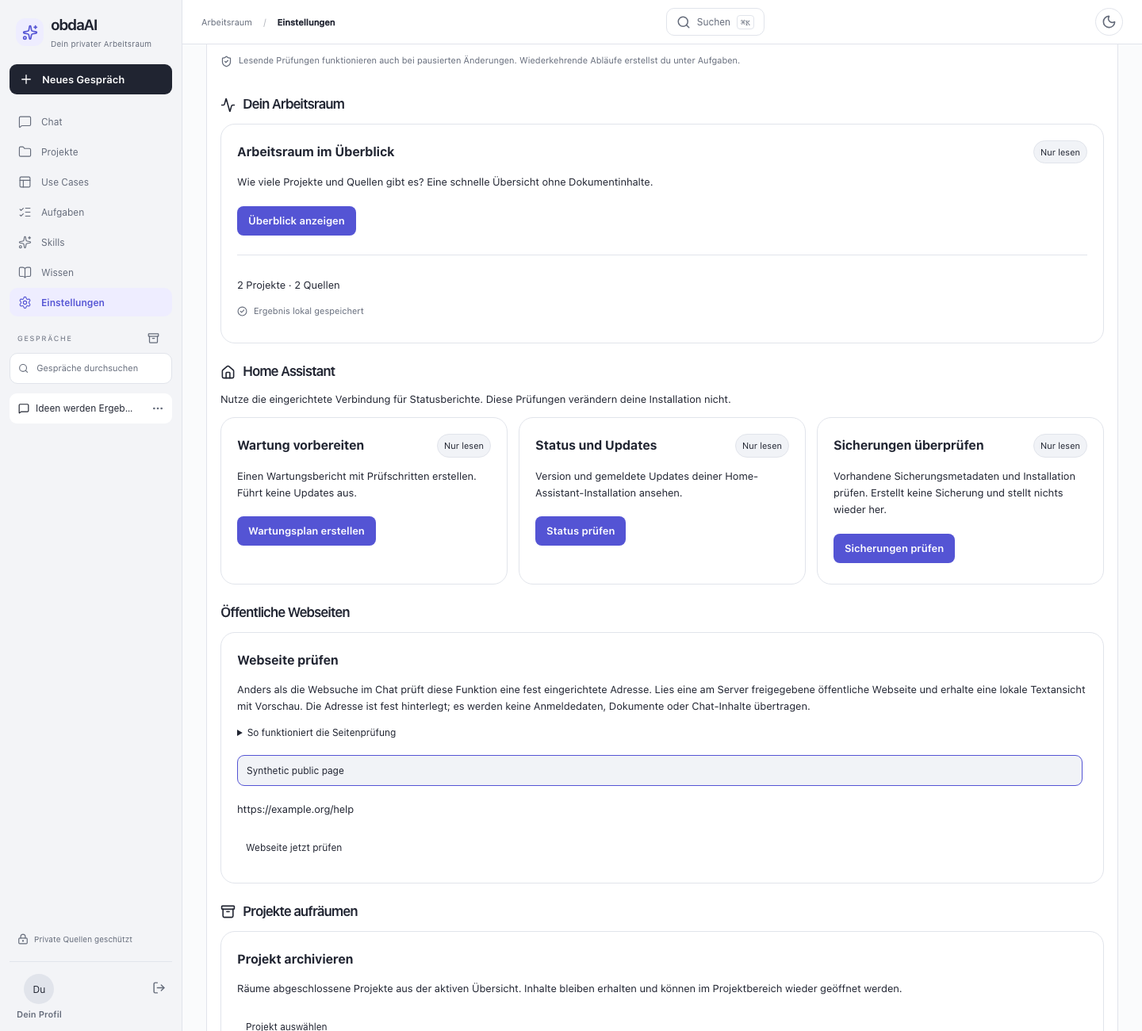
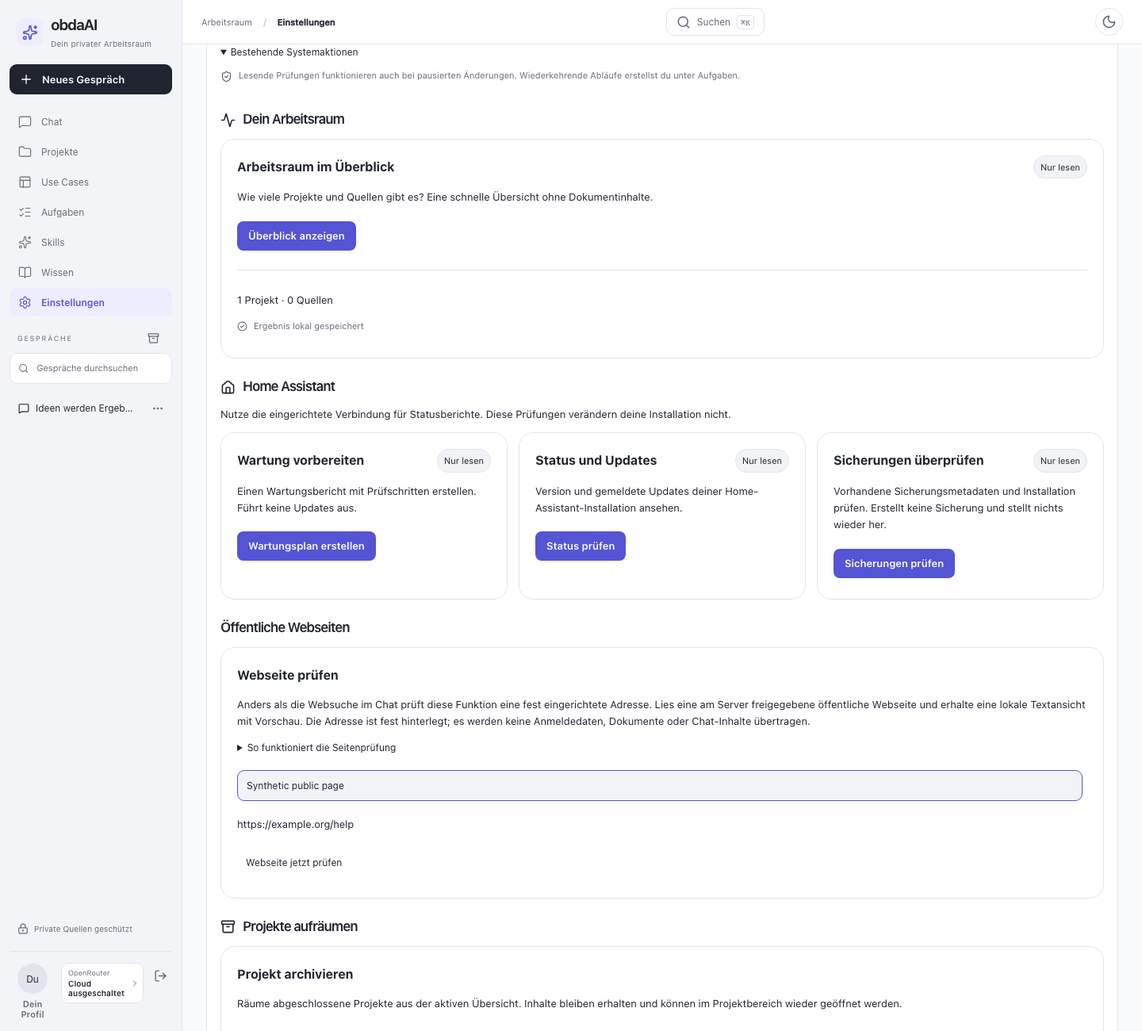
Remove duplicate integration settings sections

diff --git a/frontend/src/main.tsx b/frontend/src/main.tsx
@@ -171,6 +171,6 @@ if(!csrf)return <main className="login"><form onSubmit={login}><span className="
 return <div className="shell">{deletionCleanup&&<div className="deletion-cleanup-notice" role={deletionCleanup.error?'alert':'status'}>{deletionCleanup.status==='completed'?deletionCleanup.noun+' und Dateien endgültig gelöscht.':deletionCleanup.error?deletionCleanup.noun+' entfernt. Die Dateibereinigung wird weiter versucht: '+deletionCleanup.error:deletionCleanup.noun+' entfernt. Dateien werden endgültig bereinigt…'}{deletionCleanup.status==='completed'&&<button aria-label="Bereinigungsstatus schließen" onClick={()=>setDeletionCleanup(null)}>×</button>}</div>}{skillPicker&&<Suspense fallback={<div className="modal"><p role="status">Skillauswahl lädt…</p></div>}><ChatSkillPicker api={api} conversationId={chat?.id} projectId={chat?.project_id} onClose={()=>setSkillPicker(false)} onPick={invocation=>{const start=inputRef.current?.selectionStart??text.length,end=inputRef.current?.selectionEnd??start;const before=text.slice(0,start),prefix=before&&!/\s$/.test(before)?' ':'';changeText(before+prefix+invocation+' '+text.slice(end));setSkillPicker(false)}}/></Suspense>}{profileNavigation&&<div className="modal navigation-guard"><div role="dialog" aria-modal="true" aria-label="Ungespeicherte Profiländerungen" onKeyDown={event=>{if(event.key==='Escape'){event.preventDefault();setProfileNavigation(null)}if(event.key==='Tab'){const controls=Array.from(event.currentTarget.querySelectorAll<HTMLButtonElement>('button'));if(event.shiftKey&&document.activeElement===controls[0]){event.preventDefault();controls.at(-1)?.focus()}else if(!event.shiftKey&&document.activeElement===controls.at(-1)){event.preventDefault();controls[0]?.focus()}}}}><h2>Profiländerungen behalten?</h2><p>Deine Angaben sind noch nicht gespeichert. Kehre zu den Einstellungen zurück oder verwirf den Entwurf und öffne den gewählten Bereich.</p><div className="dialog-actions"><button onClick={()=>setProfileNavigation(null)}>Weiter bearbeiten</button><button onClick={()=>{const action=profileNavigation.run;setProfileNavigation(null);setProfileDirty(false);action()}}>Entwurf verwerfen und weiter</button></div></div></div>}{searchOpen&&<SearchPalette api={api} onClose={()=>setSearchOpen(false)} onSelect={selectSearchResult}/>}{pendingNavigation&&<div className="modal navigation-guard"><div role="dialog" aria-modal="true" aria-label="Ungespeicherte Aufgabenänderungen" onKeyDown={event=>{if(event.key==='Escape'){event.preventDefault();setPendingNavigation(null)}if(event.key==='Tab'){const controls=Array.from(event.currentTarget.querySelectorAll<HTMLButtonElement>('button'));if(event.shiftKey&&document.activeElement===controls[0]){event.preventDefault();controls.at(-1)?.focus()}else if(!event.shiftKey&&document.activeElement===controls.at(-1)){event.preventDefault();controls[0]?.focus()}}}}><h2>Änderungen an deiner Aufgabe behalten?</h2><p>Die Änderungen sind noch nicht gespeichert. Du kannst zur Aufgabe zurückkehren oder den Suchtreffer öffnen und die ungespeicherten Änderungen verwerfen.</p><div className="dialog-actions"><button onClick={()=>setPendingNavigation(null)}>Zur Aufgabe zurück</button><button onClick={()=>void navigateSearchResult(pendingNavigation)}>Änderungen verwerfen und Treffer öffnen</button></div></div></div>}{mobile&&<button className="scrim" aria-label="Navigation schließen" onClick={()=>setMobile(false)}/>}
 <aside inert={searchOpen||!!pendingNavigation||!!profileNavigation||skillPicker||!!deleteDialog} className={mobile?'sidebar open':'sidebar'}><div className="brand"><span className="brandmark"><Sparkles size={20}/></span><span><b>{appearance.app_name}</b><small>Dein privater Arbeitsraum</small></span></div><button className="new" onClick={()=>leaveProfile(()=>void newChat())} disabled={busy||switchingChat||searchNavigating||!navigationReady||!config}><Plus size={18}/> Neues Gespräch</button><nav aria-label="Hauptnavigation">{pages.map(p=><button className={page===p.name?'active':''} disabled={switchingChat||searchNavigating||!navigationReady} key={p.name} onClick={()=>leaveProfile(()=>{if(p.name==='Projekte'||p.name==='Wissen'||p.name==='Use Cases'){setArtifactProject(null);setArtifactSeed(null);setProjectTab('chats');setFileTarget(null);setSourceTarget(null);setConnectionTarget(null)}if(p.name==='Use Cases')setUseCaseTarget(null);if(p.name==='Aufgaben')setTaskTarget(null);setPage(p.name);if(p.name==='Chat')setWorkbenchOpen(false);setMobile(false)},p.name===page)}><p.icon size={18}/>{p.name}</button>)}</nav><div className="history-title">GESPRÄCHE <button aria-label={archived?'Aktive Gespräche':'Archiv anzeigen'} onClick={()=>setArchived(!archived)}><Archive size={15}/></button></div><label className="search"><Search size={15}/><input aria-label="Gespräche suchen" placeholder="Gespräche durchsuchen" value={query} onChange={e=>setQuery(e.target.value)}/></label><div className="history">{chats.map(c=><div className={'history-row '+(chat?.id===c.id?'active':'')} key={c.id}><button className="history-open" disabled={busy} onClick={()=>leaveProfile(()=>void open(c.id))}><MessageSquare size={14}/><span>{c.title}</span></button><details name="conversation-actions" className="history-actions" onKeyDown={event=>{if(event.key==='Escape'){event.currentTarget.open=false;event.currentTarget.querySelector<HTMLElement>('summary')?.focus()}}}><summary aria-label={'Gesprächsaktionen: '+c.title}><MoreHorizontal size={16}/></summary><div className="history-menu"><button disabled={busy||switchingChat} onClick={async event=>{event.currentTarget.closest('details')?.removeAttribute('open');try{await api('/conversations/'+c.id,'PATCH',{archived:!c.archived});if(chat?.id===c.id)setChat(old=>old?{...old,archived:!c.archived}:old);await refresh()}catch(e){setError((e as Error).message)}}}><Archive size={14}/>{c.archived?'Wieder öffnen':'Archivieren'}</button><button className="danger-link" disabled={busy||switchingChat} onClick={event=>{event.currentTarget.closest('details')?.removeAttribute('open');setDeleteDialog({id:c.id,name:c.title,kind:'conversation'})}}><Trash2 size={14}/> Gespräch löschen</button></div></details></div>)}{!chats.length&&<p className="hint">{archived?'Das Archiv ist leer.':'Deine Gespräche erscheinen hier.'}</p>}</div><div className="sidebar-bottom"><p><LockKeyhole size={14}/> Private Quellen geschützt</p><div className="profile"><button className="profile-identity" aria-label="Profil und Darstellung anpassen" onClick={()=>leaveProfile(()=>{setSettingsTab('Allgemein');setPage('Einstellungen');setMobile(false)})}><span className="avatar">{appearance.avatar_data_url?<img src={appearance.avatar_data_url} alt="Dein Profilfoto"/>:initials(appearance.display_name)}</span><strong>{appearance.display_name||'Dein Profil'}</strong></button><Suspense fallback={null}><CloudBalances api={api} enabled={!!config?.cloud_enabled} onSettings={()=>leaveProfile(()=>{setSettingsTab('Modelle');setPage('Einstellungen');setMobile(false)})}/></Suspense><button aria-label="Abmelden" onClick={async()=>{await api('/logout','POST');clearAuth()}}><LogOut size={17}/></button></div></div></aside>
 <main inert={searchOpen||!!pendingNavigation||!!profileNavigation||skillPicker||!!deleteDialog} className={'workspace'+(page==='Chat'&&workbenchOpen?' with-workbench':'')}><header><button className="mobile-toggle" aria-label="Navigation öffnen" disabled={switchingChat||searchNavigating||!navigationReady} onClick={()=>setMobile(true)}><Menu size={21}/></button><div className="breadcrumb">{searchNavigating&&<span role="status">Treffer wird geöffnet … </span>}Arbeitsraum <span>/</span> <b>{page}</b></div><button className="workspace-search-button" aria-label="Arbeitsraum durchsuchen" title="Arbeitsraum durchsuchen (⌘K / Strg+K)" disabled={busy||switchingChat||searchNavigating||!navigationReady||!config} onClick={()=>setSearchOpen(true)}><Search size={18}/><span>Suchen</span><kbd>⌘K</kbd></button><button aria-label={dark?'Helles Design':'Dunkles Design'} onClick={()=>setDark(!dark)}>{dark?<Sun size={19}/>:<Moon size={19}/>}</button></header>
-{page==='Chat'?<><div className="chat-top"><div><span className="context">{chat?.memory_scope?'Wissenschat · Obsidian':room?<button className="text-button" onClick={()=>{setArtifactProject(room.id);setArtifactSeed(null);setProjectTab('chats');setPage(room.kind==='knowledge'?'Wissen':'Projekte')}}>{room.kind!=='knowledge'&&<span className="project-chat-icon"><Suspense fallback={<Folder size={15}/>}><ProjectIcon icon={room.icon} size={15}/></Suspense></span>}{room.name} · {room.kind==='knowledge'?'Wissensquelle öffnen':'Projektraum öffnen'}</button>:chat?.title||'Neues Gespräch'}</span></div><div className="workspace-actions"><button aria-label="Arbeitsbereich öffnen" aria-pressed={workbenchOpen} onClick={()=>setWorkbenchOpen(value=>!value)}><Folder size={15}/><span>Arbeitsbereich</span></button><button aria-label="Antwortvorgaben öffnen" title="Antwortstil einstellen" aria-pressed={workbenchOpen&&workTab==='preferences'} onClick={()=>showWorkbench('preferences')}><Settings size={15}/></button></div>{chat&&<div><button disabled={busy} aria-label="Gespräch umbenennen" onClick={()=>setRename(chat.title)}><Pencil size={16}/></button><button disabled={busy} aria-label={chat.archived?'Gespräch wieder öffnen':'Gespräch archivieren'} onClick={()=>edit({archived:!chat.archived})}><Archive size={16}/></button><button disabled={busy} aria-label="Gespräch löschen" onClick={()=>setDeleteDialog({id:chat.id,name:chat.title,kind:'conversation'})}><Trash2 size={16}/></button></div>}</div>{chat&&<Suspense fallback={<p className="hint" role="status">Integrationen laden…</p>}><IntegrationBindingPicker key={chat.id} api={api} scope="conversation" ownerId={chat.id} disabled={busy||chat.archived}/></Suspense>}<section ref={chatScroll.containerRef} className="chat-scroll" aria-label="Gespräch" tabIndex={0}><div ref={chatScroll.contentRef} className="chat-content">{!chat?.messages.length?<div className="welcome"><div className="welcome-icon"><Sparkles size={29}/></div><p className="eyebrow">DEIN PERSÖNLICHER AI HUB</p><h1>Womit möchtest du <em>beginnen?</em></h1><p>Stelle eine Frage, entwickle eine Idee oder denke etwas weiter.<br/>Auto wählt zwischen lokalen und freigegebenen Cloudmodellen.</p><div className="suggestions">{['Erkläre mir ein Thema einfach','Hilf mir, eine Idee zu strukturieren','Formuliere einen freundlichen Entwurf'].map((s,i)=><button key={s} onClick={()=>changeText(s)}><span>0{i+1}</span>{s}<ArrowUp size={17}/></button>)}</div><p className="hint">AUTO wählt ein passendes Modell innerhalb deiner Freigaben. Ohne Cloudfreigabe bleiben deine Nachrichten lokal.</p></div>:<div className="messages">{chat.messages.map(m=><article className={'message '+m.role} key={m.id}><div className="message-label">{m.role==='user'?'Du':<><Sparkles size={14}/> {appearance.app_name}</>}</div><div className="markdown"><Markdown remarkPlugins={[remarkGfm]} urlTransform={u=>u.startsWith('https://')||u.startsWith('http://')?u:''} components={{img:()=> <span className="hint">Externes Bild wird nicht automatisch geladen.</span>,a:props=><a {...props} target="_blank" rel="noreferrer noopener"/>}}>{m.content}</Markdown></div>{m.role==='assistant'&&m.content&&<AnswerProcessing processing={m.processing}/>}{m.role==='user'&&m.id!=='user'&&<button disabled={busy||!config} className="copy" aria-label="Nachricht bearbeiten" onClick={()=>{setEditing(m);setEditedText(m.content);setEditCloud(mode==='auto'&&!!config?.cloud_enabled&&!chat?.project_id&&!chat?.memory_scope)}}><Pencil size={14}/> Bearbeiten</button>}{m.role==='user'&&m.id!=='user'&&<button className="copy" aria-label="Aus Nachricht eine Aufgabe planen" disabled={busy||!m.content.trim()||m.content.length>4000} title={m.content.length>4000?'Nachricht zu lang; bitte ein kürzeres Ziel im Aufgabenbereich eingeben':undefined} onClick={()=>{setTaskSeed({goal:m.content,project_id:chat.project_id||null});showWorkbench('task');setMobile(false)}}><ListChecks size={14}/> Als Aufgabe planen</button>}{m.role==='assistant'&&m.id!=='stream'&&m.content&&m.content.length<=16000&&!chat.memory_scope&&<button className="copy" aria-label="Chatantwort als Datei übernehmen" disabled={busy} onClick={()=>{setArtifactSeed({project_id:chat.project_id||null,conversation_id:chat.id,message_id:m.id,revision:m.revision||1,content:m.content});showWorkbench('files');setMobile(false)}}><Folder size={14}/> Als Datei übernehmen</button>}{m.role==='assistant'&&m.content&&<button className="copy" aria-label="Antwort kopieren" onClick={()=>navigator.clipboard.writeText(m.content).catch(()=>setError('Kopieren nicht verfügbar'))}><Copy size={14}/> Kopieren</button>}</article>)}{!!chat.context_sources?.length&&<details className="setting-card"><summary>Verwendete Quellen · {chat.context_sources.length}</summary>{chat.context_sources.map((s,i)=><p key={i}>{s.reference}<small> · Revision {s.revision} · {s.label}</small>{s.download_url&&<a href={s.download_url} download> Original</a>}</p>)}</details>}{chat.runs.filter(r=>r.artifact).map(r=><article className="citation" key={'file-'+r.id}><b>Lokale Datei · {r.artifact!.kind.toUpperCase()} · Version {r.artifact!.revision}</b><p>Vorschau und Inhalt vor dem Download prüfen.</p><button onClick={()=>{setArtifactSeed(null);setArtifactProject(r.artifact!.project_id);showWorkbench('files');setMobile(false)}}>Datei im Projekt öffnen</button></article>)}{chat.runs.length>0&&<RunHistory key={chat.id} runs={chat.runs} load={id=>api('/runs/'+id)}/>}{chat.messages.length>0&&!chat.archived&&<button className="retry" disabled={busy||!config} onClick={()=>regenerate()}><ArrowUp size={14}/> Antwort erneut erzeugen</button>}</div>}</div></section><div className="composer-area">{!chatScroll.following&&<button type="button" className="chat-jump-end" aria-label="Zum Ende" onClick={chatScroll.jumpToEnd}><ArrowDown size={15}/> Zum Ende</button>}{banner}{status&&<p className="status" role="status">{busy&&<i/>}{status}</p>}<form className="composer" onSubmit={send}><textarea ref={inputRef} rows={1} aria-label="Nachricht" placeholder="Schreibe deinem persönlichen Assistenten …" value={text} disabled={chat?.archived||switchingChat} onChange={e=>changeText(e.target.value)} onKeyDown={e=>{if(e.key==='Enter'&&!e.shiftKey&&!e.nativeEvent.isComposing){e.preventDefault();e.currentTarget.form?.requestSubmit()}}}/><div className="composer-bottom"><ComposerTools choice={choice} cloudEnabled={!!config?.cloud_enabled} cloudBlocked={!!chat?.project_id||!!chat?.memory_scope} disabled={busy||!!chat?.archived||switchingChat||!config} webConfigured={!!config?.web_search_configured} webAllowed={mode!=='local'&&webAllowed} sourceLabel={chat?.project_id?(room?.kind==='knowledge'?'Wissensquelle':'Projektquellen'):chat?.memory_scope?'Obsidian-Quellen':undefined} onChooseModel={chooseModel} onToggleWeb={()=>updateWebAllowed(!webAllowed)} onAction={action=>{if(action==='skills'){setSkillPicker(true);return}if(action==='task')setTaskSeed({goal:text,project_id:chat?.project_id||null});if(action==='files')setArtifactSeed(null);showWorkbench(action)}}/>{busy?<button type="button" className="send" aria-label="Antwort abbrechen" onClick={cancel}><Square size={17}/></button>:<button className="send" aria-label="Nachricht senden" disabled={!text.trim()||chat?.archived||switchingChat||!config}><ArrowUp size={20}/></button>}</div></form><div className="composer-note"><span>Enter senden · Shift + Enter neue Zeile</span><span>{!config?'Modell- und Webeinstellungen werden geladen…':choice==='auto'?(chat?.project_id||chat?.memory_scope?'Private Quellen bleiben lokal':config?.cloud_enabled?'Automatisch · lokal oder Cloud nach Routingregeln':'Automatisch · Cloud am Server ausgeschaltet'):choice==='local'?'Lokales Modell, ohne Cloud':chat?.project_id||chat?.memory_scope?'Quellen bleiben lokal':'Konfiguriertes Cloudmodell · ohne lokalen Fallback'}</span></div></div></>:<section className="page-content"><p className="eyebrow">{['Einstellungen','Projekte','Use Cases','Wissen','Skills','Aufgaben'].includes(page)?'DEIN ARBEITSRAUM':'IN ENTWICKLUNG'}</p><h1>{page}</h1><Suspense fallback={<p role="status">Bereich lädt…</p>}>{page==='Einstellungen'?<SettingsPanel appearance={appearance} appearanceLoading={appearanceLoading} appearanceError={appearanceError} onAppearanceSave={saveAppearance} tab={settingsTab} onTabChange={setSettingsTab} onOpenTasks={()=>leaveProfile(()=>setPage('Aufgaben'))} onDirtyChange={setProfileDirty} onWebSettingsSaved={async()=>setConfig(await api('/settings'))} webAllowed={webAllowed} onWebAllowed={updateWebAllowed} onPasswordChanged={()=>clearAuth('Passwort geändert. Bitte melde dich mit deinem neuen Passwort an.')} api={api} config={config} dark={dark} onTheme={setDark} defaultMode={defaultMode} onDefaultMode={value=>{setDefaultMode(value);localStorage.setItem('hub-default-mode',value)}}/>:page==='Projekte'?<KnowledgePanel onDeleted={deleted} key={navigationSerial} initialArtifactId={fileTarget} initialSourceId={sourceTarget} api={api} csrf={csrf} seed={artifactSeed} initialProject={artifactProject} initialTab={projectTab} onSelection={(id,tab)=>{setArtifactProject(id);setProjectTab(tab)}} onChat={id=>void open(id)}/>:page==='Use Cases'?<UseCasesHub key={navigationSerial} api={api} projectId={artifactProject} caseId={useCaseTarget} onSelection={(project,item)=>{setArtifactProject(project);setUseCaseTarget(item)}}/>:page==='Wissen'?<KnowledgeSourcesPanel key={navigationSerial} initialArtifactId={fileTarget} initialSourceId={sourceTarget} initialConnectionId={connectionTarget} api={api} initialProject={artifactProject} onChat={id=>void open(id)}/>:page==='Skills'?<SkillsPanel api={api}/>:page==='Aufgaben'?<TasksPanel onSearch={()=>setSearchOpen(true)} key={navigationSerial} initialTaskId={taskTarget} onDirtyChange={setTaskDirty} api={api}/>:<div className="setting-card"><h2>{page==='Projekte'||page==='Wissen'?'Meilenstein M2':'Meilenstein M3'}</h2><p>Dieser Bereich ist noch nicht implementiert. Der Chat ist an die echte API angeschlossen; hier wurden noch keine Daten importiert oder Systemaktionen freigegeben.</p><button className="primary" onClick={()=>setPage('Chat')}>Zum Chat <MessageSquare size={17}/></button></div>}</Suspense></section>}
+{page==='Chat'?<><div className="chat-top"><div><span className="context">{chat?.memory_scope?'Wissenschat · Obsidian':room?<button className="text-button" onClick={()=>{setArtifactProject(room.id);setArtifactSeed(null);setProjectTab('chats');setPage(room.kind==='knowledge'?'Wissen':'Projekte')}}>{room.kind!=='knowledge'&&<span className="project-chat-icon"><Suspense fallback={<Folder size={15}/>}><ProjectIcon icon={room.icon} size={15}/></Suspense></span>}{room.name} · {room.kind==='knowledge'?'Wissensquelle öffnen':'Projektraum öffnen'}</button>:chat?.title||'Neues Gespräch'}</span></div><div className="workspace-actions"><button aria-label="Arbeitsbereich öffnen" aria-pressed={workbenchOpen} onClick={()=>setWorkbenchOpen(value=>!value)}><Folder size={15}/><span>Arbeitsbereich</span></button><button aria-label="Antwortvorgaben öffnen" title="Antwortstil einstellen" aria-pressed={workbenchOpen&&workTab==='preferences'} onClick={()=>showWorkbench('preferences')}><Settings size={15}/></button></div>{chat&&<div><button disabled={busy} aria-label="Gespräch umbenennen" onClick={()=>setRename(chat.title)}><Pencil size={16}/></button><button disabled={busy} aria-label={chat.archived?'Gespräch wieder öffnen':'Gespräch archivieren'} onClick={()=>edit({archived:!chat.archived})}><Archive size={16}/></button><button disabled={busy} aria-label="Gespräch löschen" onClick={()=>setDeleteDialog({id:chat.id,name:chat.title,kind:'conversation'})}><Trash2 size={16}/></button></div>}</div>{chat&&<Suspense fallback={<p className="hint" role="status">Integrationen laden…</p>}><IntegrationBindingPicker key={chat.id} api={api} scope="conversation" ownerId={chat.id} disabled={busy||chat.archived}/></Suspense>}<section ref={chatScroll.containerRef} className="chat-scroll" aria-label="Gespräch" tabIndex={0}><div ref={chatScroll.contentRef} className="chat-content">{!chat?.messages.length?<div className="welcome"><div className="welcome-icon"><Sparkles size={29}/></div><p className="eyebrow">DEIN PERSÖNLICHER AI HUB</p><h1>Womit möchtest du <em>beginnen?</em></h1><p>Stelle eine Frage, entwickle eine Idee oder denke etwas weiter.<br/>Auto wählt zwischen lokalen und freigegebenen Cloudmodellen.</p><div className="suggestions">{['Erkläre mir ein Thema einfach','Hilf mir, eine Idee zu strukturieren','Formuliere einen freundlichen Entwurf'].map((s,i)=><button key={s} onClick={()=>changeText(s)}><span>0{i+1}</span>{s}<ArrowUp size={17}/></button>)}</div><p className="hint">AUTO wählt ein passendes Modell innerhalb deiner Freigaben. Ohne Cloudfreigabe bleiben deine Nachrichten lokal.</p></div>:<div className="messages">{chat.messages.map(m=><article className={'message '+m.role} key={m.id}><div className="message-label">{m.role==='user'?'Du':<><Sparkles size={14}/> {appearance.app_name}</>}</div><div className="markdown"><Markdown remarkPlugins={[remarkGfm]} urlTransform={u=>u.startsWith('https://')||u.startsWith('http://')?u:''} components={{img:()=> <span className="hint">Externes Bild wird nicht automatisch geladen.</span>,a:props=><a {...props} target="_blank" rel="noreferrer noopener"/>}}>{m.content}</Markdown></div>{m.role==='assistant'&&m.content&&<AnswerProcessing processing={m.processing}/>}{m.role==='user'&&m.id!=='user'&&<button disabled={busy||!config} className="copy" aria-label="Nachricht bearbeiten" onClick={()=>{setEditing(m);setEditedText(m.content);setEditCloud(mode==='auto'&&!!config?.cloud_enabled&&!chat?.project_id&&!chat?.memory_scope)}}><Pencil size={14}/> Bearbeiten</button>}{m.role==='user'&&m.id!=='user'&&<button className="copy" aria-label="Aus Nachricht eine Aufgabe planen" disabled={busy||!m.content.trim()||m.content.length>4000} title={m.content.length>4000?'Nachricht zu lang; bitte ein kürzeres Ziel im Aufgabenbereich eingeben':undefined} onClick={()=>{setTaskSeed({goal:m.content,project_id:chat.project_id||null});showWorkbench('task');setMobile(false)}}><ListChecks size={14}/> Als Aufgabe planen</button>}{m.role==='assistant'&&m.id!=='stream'&&m.content&&m.content.length<=16000&&!chat.memory_scope&&<button className="copy" aria-label="Chatantwort als Datei übernehmen" disabled={busy} onClick={()=>{setArtifactSeed({project_id:chat.project_id||null,conversation_id:chat.id,message_id:m.id,revision:m.revision||1,content:m.content});showWorkbench('files');setMobile(false)}}><Folder size={14}/> Als Datei übernehmen</button>}{m.role==='assistant'&&m.content&&<button className="copy" aria-label="Antwort kopieren" onClick={()=>navigator.clipboard.writeText(m.content).catch(()=>setError('Kopieren nicht verfügbar'))}><Copy size={14}/> Kopieren</button>}</article>)}{!!chat.context_sources?.length&&<details className="setting-card"><summary>Verwendete Quellen · {chat.context_sources.length}</summary>{chat.context_sources.map((s,i)=><p key={i}>{s.reference}<small> · Revision {s.revision} · {s.label}</small>{s.download_url&&<a href={s.download_url} download> Original</a>}</p>)}</details>}{chat.runs.filter(r=>r.artifact).map(r=><article className="citation" key={'file-'+r.id}><b>Lokale Datei · {r.artifact!.kind.toUpperCase()} · Version {r.artifact!.revision}</b><p>Vorschau und Inhalt vor dem Download prüfen.</p><button onClick={()=>{setArtifactSeed(null);setArtifactProject(r.artifact!.project_id);showWorkbench('files');setMobile(false)}}>Datei im Projekt öffnen</button></article>)}{chat.runs.length>0&&<RunHistory key={chat.id} runs={chat.runs} load={id=>api('/runs/'+id)}/>}{chat.messages.length>0&&!chat.archived&&<button className="retry" disabled={busy||!config} onClick={()=>regenerate()}><ArrowUp size={14}/> Antwort erneut erzeugen</button>}</div>}</div></section><div className="composer-area">{!chatScroll.following&&<button type="button" className="chat-jump-end" aria-label="Zum Ende" onClick={chatScroll.jumpToEnd}><ArrowDown size={15}/> Zum Ende</button>}{banner}{status&&<p className="status" role="status">{busy&&<i/>}{status}</p>}<form className="composer" onSubmit={send}><textarea ref={inputRef} rows={1} aria-label="Nachricht" placeholder="Schreibe deinem persönlichen Assistenten …" value={text} disabled={chat?.archived||switchingChat} onChange={e=>changeText(e.target.value)} onKeyDown={e=>{if(e.key==='Enter'&&!e.shiftKey&&!e.nativeEvent.isComposing){e.preventDefault();e.currentTarget.form?.requestSubmit()}}}/><div className="composer-bottom"><ComposerTools choice={choice} cloudEnabled={!!config?.cloud_enabled} cloudBlocked={!!chat?.project_id||!!chat?.memory_scope} disabled={busy||!!chat?.archived||switchingChat||!config} webConfigured={!!config?.web_search_configured} webAllowed={mode!=='local'&&webAllowed} sourceLabel={chat?.project_id?(room?.kind==='knowledge'?'Wissensquelle':'Projektquellen'):chat?.memory_scope?'Obsidian-Quellen':undefined} onChooseModel={chooseModel} onToggleWeb={()=>updateWebAllowed(!webAllowed)} onAction={action=>{if(action==='skills'){setSkillPicker(true);return}if(action==='task')setTaskSeed({goal:text,project_id:chat?.project_id||null});if(action==='files')setArtifactSeed(null);showWorkbench(action)}}/>{busy?<button type="button" className="send" aria-label="Antwort abbrechen" onClick={cancel}><Square size={17}/></button>:<button className="send" aria-label="Nachricht senden" disabled={!text.trim()||chat?.archived||switchingChat||!config}><ArrowUp size={20}/></button>}</div></form><div className="composer-note"><span>Enter senden · Shift + Enter neue Zeile</span><span>{!config?'Modell- und Webeinstellungen werden geladen…':choice==='auto'?(chat?.project_id||chat?.memory_scope?'Private Quellen bleiben lokal':config?.cloud_enabled?'Automatisch · lokal oder Cloud nach Routingregeln':'Automatisch · Cloud am Server ausgeschaltet'):choice==='local'?'Lokales Modell, ohne Cloud':chat?.project_id||chat?.memory_scope?'Quellen bleiben lokal':'Konfiguriertes Cloudmodell · ohne lokalen Fallback'}</span></div></div></>:<section className="page-content"><p className="eyebrow">{['Einstellungen','Projekte','Use Cases','Wissen','Skills','Aufgaben'].includes(page)?'DEIN ARBEITSRAUM':'IN ENTWICKLUNG'}</p><h1>{page}</h1><Suspense fallback={<p role="status">Bereich lädt…</p>}>{page==='Einstellungen'?<SettingsPanel appearance={appearance} appearanceLoading={appearanceLoading} appearanceError={appearanceError} onAppearanceSave={saveAppearance} tab={settingsTab} onTabChange={setSettingsTab} onDirtyChange={setProfileDirty} onWebSettingsSaved={async()=>setConfig(await api('/settings'))} webAllowed={webAllowed} onWebAllowed={updateWebAllowed} onPasswordChanged={()=>clearAuth('Passwort geändert. Bitte melde dich mit deinem neuen Passwort an.')} api={api} config={config} dark={dark} onTheme={setDark} defaultMode={defaultMode} onDefaultMode={value=>{setDefaultMode(value);localStorage.setItem('hub-default-mode',value)}}/>:page==='Projekte'?<KnowledgePanel onDeleted={deleted} key={navigationSerial} initialArtifactId={fileTarget} initialSourceId={sourceTarget} api={api} csrf={csrf} seed={artifactSeed} initialProject={artifactProject} initialTab={projectTab} onSelection={(id,tab)=>{setArtifactProject(id);setProjectTab(tab)}} onChat={id=>void open(id)}/>:page==='Use Cases'?<UseCasesHub key={navigationSerial} api={api} projectId={artifactProject} caseId={useCaseTarget} onSelection={(project,item)=>{setArtifactProject(project);setUseCaseTarget(item)}}/>:page==='Wissen'?<KnowledgeSourcesPanel key={navigationSerial} initialArtifactId={fileTarget} initialSourceId={sourceTarget} initialConnectionId={connectionTarget} api={api} initialProject={artifactProject} onChat={id=>void open(id)}/>:page==='Skills'?<SkillsPanel api={api}/>:page==='Aufgaben'?<TasksPanel onSearch={()=>setSearchOpen(true)} key={navigationSerial} initialTaskId={taskTarget} onDirtyChange={setTaskDirty} api={api}/>:<div className="setting-card"><h2>{page==='Projekte'||page==='Wissen'?'Meilenstein M2':'Meilenstein M3'}</h2><p>Dieser Bereich ist noch nicht implementiert. Der Chat ist an die echte API angeschlossen; hier wurden noch keine Daten importiert oder Systemaktionen freigegeben.</p><button className="primary" onClick={()=>setPage('Chat')}>Zum Chat <MessageSquare size={17}/></button></div>}</Suspense></section>}
 {page==='Chat'&&workbenchOpen&&<div className="workspace-panel-mount"><WorkspacePanel api={api} csrf={csrf} conversationId={chat?.id} projectId={chat?.project_id} memoryScope={chat?.memory_scope} tab={workTab} onTab={setWorkTab} onClose={()=>setWorkbenchOpen(false)} seed={artifactSeed} taskSeed={taskSeed} onOpenProject={(id,tab)=>{setArtifactSeed(null);setArtifactProject(id);setProjectTab(tab);setPage('Projekte')}} onTaskCreated={()=>setTaskSeed(null)} onOpenTasks={()=>{setTaskSeed(null);setPage('Aufgaben')}}/></div>}</main>{editing&&<div className="modal"><form onSubmit={e=>{e.preventDefault();void regenerate(editing)}}><h2>Nachricht bearbeiten</h2><p className="hint">Ab dieser Nachricht entsteht eine neue Antwort. Bisherige Antworten bleiben in der Laufhistorie erhalten.</p>{error&&<p className="error" role="alert">{error}</p>}<label htmlFor="edited-message">Nachricht</label><textarea id="edited-message" required maxLength={16000} value={editedText} onChange={e=>setEditedText(e.target.value)}/>{config?.cloud_enabled&&!chat?.project_id&&!chat?.memory_scope&&mode==='auto'&&<label><input type="checkbox" checked={editCloud} onChange={e=>setEditCloud(e.target.checked)}/> Cloudmodelle für diese neue Revision erlauben ({providerLabels[cloudProvider]})</label>}<p className="hint">{mode==='cloud'?'Diese neue Revision wird vom konfigurierten Cloudmodell beantwortet.':'Ohne Modellfreigabe wird die geänderte Nachricht lokal beantwortet.'} Bei eingeschalteter Websuche kann ihr Suchtext an den Suchdienst übergeben werden.</p><div className="dialog-actions"><button type="button" onClick={()=>setEditing(null)}>Abbrechen</button><button className="primary" disabled={busy||!editedText.trim()||!config}>Ändern und neu antworten</button></div></form></div>}{rename!==null&&<div className="modal"><form onSubmit={e=>{e.preventDefault();void edit({title:rename})}}><h2>Gespräch umbenennen</h2><label htmlFor="title">Titel</label><input id="title" required maxLength={160} value={rename} autoFocus onChange={e=>setRename(e.target.value)}/><div className="dialog-actions"><button type="button" onClick={()=>setRename(null)}>Abbrechen</button><button className="primary">Speichern</button></div></form></div>}{deleteDialog&&<DeleteDialog api={api} target={deleteDialog} onClose={()=>setDeleteDialog(null)} onDeleted={deleted}/>}</div>}
 createRoot(document.getElementById('root')!).render(<StrictMode><App/></StrictMode>);

diff --git a/frontend/src/SettingsPanel.tsx b/frontend/src/SettingsPanel.tsx
@@ -1,9 +1,8 @@
-import {useEffect,useState,useRef,lazy} from 'react';
+import {useEffect,useState,lazy} from 'react';
 import {AppearancePanel} from './AppearancePanel';
 import type {Appearance} from './appearance';
 import {ToolsPanel} from './ToolsPanel';
 import {IntegrationRegistryPanel} from './IntegrationRegistryPanel';
-import {ConnectionsPanel} from './ConnectionsPanel';
 import {ProvidersPanel} from './ProvidersPanel';
 const SkillsPanel=lazy(()=>import('./SkillsPanel').then(m=>({default:m.SkillsPanel})));
 import {PreferencesPanel} from './PreferencesPanel';
@@ -15,15 +14,10 @@ type API=(path:string,method?:string,body?:unknown)=>Promise<any>;
 type Config={local_configured:boolean;cloud_enabled:boolean;external_provider_kinds?:string[];web_search_configured?:boolean};
 type Mode='auto'|'local'|'cloud';
 export const settingsTabs=['Allgemein','Über mich','Modelle','Routing','Antwortverhalten','Skills','Webrecherche','Integrationen','Datenschutz','Sicherheit'];
-export function SettingsPanel({appearance,appearanceLoading,appearanceError,onAppearanceSave,api,config,dark,onTheme,defaultMode,onDefaultMode,webAllowed,onWebAllowed,onPasswordChanged,onWebSettingsSaved,onDirtyChange,tab,onTabChange,onOpenTasks}:{appearance:Appearance;appearanceLoading:boolean;appearanceError:string;onAppearanceSave:(value:Appearance)=>Promise<void>;api:API;config:Config|null;dark:boolean;onTheme:(dark:boolean)=>void;defaultMode:Mode;onDefaultMode:(mode:Mode)=>void;webAllowed:boolean;onWebAllowed:(allowed:boolean)=>void;onPasswordChanged?:()=>void;onWebSettingsSaved?:()=>Promise<void>;onDirtyChange?:(dirty:boolean)=>void;tab:string;onTabChange:(tab:string)=>void;onOpenTasks?:()=>void}){
- const [clock,setClock]=useState<{configured:boolean;healthy:boolean;last_tick:number|null}|null>(null);
+export function SettingsPanel({appearance,appearanceLoading,appearanceError,onAppearanceSave,api,config,dark,onTheme,defaultMode,onDefaultMode,webAllowed,onWebAllowed,onPasswordChanged,onWebSettingsSaved,onDirtyChange,tab,onTabChange}:{appearance:Appearance;appearanceLoading:boolean;appearanceError:string;onAppearanceSave:(value:Appearance)=>Promise<void>;api:API;config:Config|null;dark:boolean;onTheme:(dark:boolean)=>void;defaultMode:Mode;onDefaultMode:(mode:Mode)=>void;webAllowed:boolean;onWebAllowed:(allowed:boolean)=>void;onPasswordChanged?:()=>void;onWebSettingsSaved?:()=>Promise<void>;onDirtyChange?:(dirty:boolean)=>void;tab:string;onTabChange:(tab:string)=>void}){
  const [policy,setPolicy]=useState<{paused:boolean}|null>(null);
- const [connectionsOpen,setConnectionsOpen]=useState(false);
- const connectionsRef=useRef<HTMLDetailsElement>(null);
  const setTab=(next:string)=>onTabChange(next);
- function showConnections(){setConnectionsOpen(true);requestAnimationFrame(()=>{connectionsRef.current?.scrollIntoView({block:'start',behavior:'smooth'});connectionsRef.current?.querySelector<HTMLElement>('summary')?.focus()})}
  useEffect(()=>{let stopped=false;setPolicy(null);if(tab!=='Datenschutz')return;api('/action-policy').then(value=>{if(!stopped)setPolicy(value)}).catch(()=>{if(!stopped)setPolicy(null)});return()=>{stopped=true}},[api,tab]);
- useEffect(()=>{let stopped=false;const update=()=>api('/scheduler/status').then(value=>{if(!stopped)setClock(value)}).catch(()=>{if(!stopped)setClock(null)});void update();const timer=setInterval(update,15000);return()=>{stopped=true;clearInterval(timer)}},[api]);
  return <><p className="muted">Dein Arbeitsraum, deine Modelle und deine Regeln.</p><nav className="settings-tabs" aria-label="Einstellungsbereiche">{settingsTabs.map(name=><button key={name} aria-pressed={tab===name} className={tab===name?'active':''} onClick={()=>setTab(name)}>{name}</button>)}</nav>
  {tab==='Allgemein'&&<><AppearancePanel value={appearance} loading={appearanceLoading} error={appearanceError} onSave={onAppearanceSave}/><section className="setting-card"><h2>Darstellung und neue Gespräche</h2><label>Darstellung<select aria-label="Darstellung" value={dark?'dark':'light'} onChange={e=>onTheme(e.target.value==='dark')}><option value="light">Hell</option><option value="dark">Dunkel</option></select></label><label>Standard für neue Gespräche<select aria-label="Standard für neue Gespräche" value={defaultMode} onChange={e=>onDefaultMode(e.target.value as Mode)}><option value="auto">AUTO · lokal und Cloud</option><option value="local">Nur lokal</option><option value="cloud" disabled={!config?.cloud_enabled}>Cloud</option></select></label><p className="hint">Darstellung und Standardmodus werden in diesem Browser gespeichert. Im Chat kannst du den Modus für die nächste Nachricht ändern. AUTO erlaubt Cloudmodelle für aktuelle Nachrichten in gewöhnlichen Chats und entscheidet anhand deiner Routingregeln. Cloud verwendet ausdrücklich das konfigurierte Cloudmodell und fällt bei Fehlern nicht auf lokal zurück. Private Quellen und frühere lokale Nachrichten bleiben lokal; für private Gespräche gilt Auto mit lokaler Verarbeitung.</p><label className="web-preference"><input type="checkbox" checked={webAllowed} onChange={event=>onWebAllowed(event.target.checked)}/><span>Webrecherche automatisch erlauben</span></label><p className="hint">Bei Rechercheanfragen wird die aktuelle Nachricht mit bis zu 500 Zeichen als Suchtext an den eingerichteten Suchdienst übergeben. Gesprächsverlauf und Dokumente werden nicht automatisch ergänzt. Die Einstellung gilt in diesem Browser; Nur lokal schaltet die Websuche für diesen Modus aus.</p></section></>}
  <div hidden={tab!=='Über mich'}><PersonalProfilePanel api={api} onDirtyChange={onDirtyChange}/></div>
@@ -33,6 +27,6 @@ export function SettingsPanel({appearance,appearanceLoading,appearanceError,onAp
  {tab==='Modelle'&&<ProvidersPanel api={api}/>}
  {tab==='Antwortverhalten'&&<><PreferencesPanel api={api}/><section className="setting-card"><h2>So soll dein Assistent antworten</h2><p>Erstelle Regeln für Sprache, Länge, Stil oder Gliederung. Aktiviere eine geprüfte Regel und wähle passende Stichwörter oder ordne sie gezielt einem Gespräch zu.</p><p className="hint">Projektspezifische Hinweise pflegst du im Projektraum. Eine Verhaltensregel erteilt keine System- oder Cloudrechte.</p></section></>}
  {tab==='Skills'&&<SkillsPanel api={api}/>}
- {tab==='Integrationen'&&<div className="integration-settings"><header className="integration-intro"><h2>Integrationen</h2><p>Verwalte deine Verbindungen an einem Ort und ordne sie Projekten, Aufgaben oder Gesprächen zu. Status und verfügbare Funktionen bleiben sichtbar.</p></header><IntegrationRegistryPanel api={api}/><details className="setting-card"><summary>Bestehende Systemaktionen</summary><ToolsPanel api={api} onConnections={showConnections}/></details><section className="setting-card"><h2>Modelle, Recherche und Zeitplanung</h2><div className="integration-settings-links"><article><h3>KI-Modelle</h3><p>{config?.local_configured?'Lokales Modell eingerichtet':'Lokales Modell noch nicht eingerichtet'} · {config?.cloud_enabled?'Cloud verfügbar':'Cloud am Server ausgeschaltet'}</p><button onClick={()=>setTab('Modelle')}>Modelle einrichten</button></article><article><h3>Webrecherche</h3><p>{config?.web_search_configured?'Suchdienst eingerichtet':'Suchdienst noch nicht eingerichtet'}</p><button onClick={()=>setTab('Webrecherche')}>Webrecherche einstellen</button></article><article><h3>Automatische Aufgaben</h3><p>{clock===null?'Status nicht verfügbar':clock.healthy?'Zeitplanung verbunden':clock.configured?'Zeitplanung eingerichtet · Zeitimpuls fehlt':'Zeitplanung noch nicht aktiviert'}</p><p className="hint">Termine und Wiederholungen verwaltest du unter Aufgaben. n8n erhält keine Aufgabeninhalte oder Dokumente.</p>{onOpenTasks&&<button onClick={onOpenTasks}>Aufgaben öffnen</button>}</article></div></section><details ref={connectionsRef} className="setting-card integration-connections" open={connectionsOpen} onToggle={e=>setConnectionsOpen(e.currentTarget.open)}><summary>Bisherige MCP-Verbindungen</summary><p className="hint">MCP verbindet zusätzliche Dienste. Speichern führt noch keine Aktion aus; ein Verbindungstest liest nur die angebotenen Funktionen.</p><ConnectionsPanel api={api}/></details></div>}
+ {tab==='Integrationen'&&<div className="integration-settings"><header className="integration-intro"><h2>Integrationen</h2><p>Verwalte deine Verbindungen an einem Ort und ordne sie Projekten, Aufgaben oder Gesprächen zu. Status und verfügbare Funktionen bleiben sichtbar.</p></header><IntegrationRegistryPanel api={api}/><details className="setting-card"><summary>Bestehende Systemaktionen</summary><ToolsPanel api={api}/></details></div>}
  {tab==='Datenschutz'&&<section className="setting-card"><h2>Datenverarbeitung und Aktionen</h2><p>Projekte, Dokumente und Verhaltensregeln bleiben lokal. AUTO wählt innerhalb deiner Freigaben; Nur lokal schließt Cloudverarbeitung und externe Websuche aus.</p><p>Aktionen mit Änderungen: <b>{policy===null?'Status nicht verfügbar':policy.paused?'Pausiert':'Einzeln freigeben'}</b>. Freigaben und ausgeführte Aktionen findest du unter Integrationen.</p><button onClick={()=>setTab('Integrationen')}>Integrationen öffnen</button><p className="hint">Eine Freigabe gilt für die konkrete Aktion. Modellvorschläge erteilen keine zusätzlichen Rechte. Ergebnisse und Ausführungsverlauf bleiben bei der Aufgabe beziehungsweise dem Gespräch nachvollziehbar.</p></section>}</>;
 }

diff --git a/frontend/src/integrations.css b/frontend/src/integrations.css
@@ -1,3 +1,3 @@
 .integrations-tools{display:grid;gap:24px}.integration-intro p{max-width:760px}.integrations-tools h3{display:flex;align-items:center;gap:9px}.integration-group{display:grid;gap:12px}.integration-group>h3,.integration-group>p{margin:0}.integration-grid{display:grid;grid-template-columns:repeat(auto-fit,minmax(min(100%,280px),1fr));gap:14px}.integration-card{background:var(--panel);border:1px solid var(--border);border-radius:18px;padding:20px;min-width:0}.integration-card h4{margin:0;font-size:16px}.integration-card-heading{display:flex;justify-content:space-between;align-items:flex-start;gap:12px}.integration-card p{line-height:1.65}.integration-badge{font-size:11px;white-space:nowrap;background:var(--soft);border:1px solid var(--border);border-radius:99px;padding:4px 8px}.integration-badge.unavailable{color:var(--muted)}.integration-result{border-top:1px solid var(--border);margin-top:18px;padding-top:14px}.integration-result .hint,.integration-intro .hint{display:flex;align-items:flex-start;gap:8px}.integration-result .hint svg,.integration-intro .hint svg{flex-shrink:0;margin-top:3px}.integration-result .action-card{padding:12px}.integration-projects{display:grid;gap:8px;max-height:250px;overflow:auto;margin:12px 0}.integration-projects button{display:flex;justify-content:space-between;text-align:left;gap:12px;border:1px solid var(--border);background:var(--panel);padding:12px;border-radius:12px;overflow-wrap:anywhere}.integration-projects button.selected{background:var(--soft);border-color:var(--accent)}.integration-archive{border-top:1px solid var(--border);margin-top:18px;padding-top:18px}.integration-review{background:var(--soft);padding:18px;border:1px solid var(--border);border-radius:14px}.integration-review>button{margin-right:8px;margin-top:8px}.integration-policy{padding:16px;background:var(--soft);border-radius:14px}.integration-audit>summary{cursor:pointer;font-weight:600}.integration-spinner{animation:integration-spin 1s linear infinite}@keyframes integration-spin{to{transform:rotate(360deg)}}@media(prefers-reduced-motion:reduce){.integration-spinner{animation:none}}@media(max-width:600px){.integration-card{padding:16px}.integration-card-heading{flex-wrap:wrap}.integration-review>button{width:100%;margin-right:0}.integration-card>button.primary{width:100%}}
 
-.integration-settings-links{display:grid;grid-template-columns:repeat(auto-fit,minmax(min(100%,220px),1fr));gap:12px}.integration-settings-links>button,.integration-settings-links>article{display:flex;flex-direction:column;align-items:flex-start;gap:8px;text-align:left;padding:18px;background:var(--panel);border:1px solid var(--border);border-radius:14px}.integration-settings-links>button span{color:var(--muted);font-size:12px}.integration-connections .setting-card{margin:14px 0;max-width:100%;min-width:0}.integration-connections{min-width:0}.integration-connections>summary{cursor:pointer;font-weight:600}.integration-card pre,.integration-audit pre{max-width:100%;overflow:auto}
+.integration-card pre,.integration-audit pre{max-width:100%;overflow:auto}

diff --git a/STATUS.md b/STATUS.md
@@ -1,5 +1,17 @@
 # obdaAI — Status 11.10.2026
 
+## Integrationsseite bereinigt – lokal geprüft, 11.10.2026
+
+Die redundante Linksektion „Modelle, Recherche und Zeitplanung“ sowie „Bisherige
+MCP-Verbindungen“ sind aus Einstellungen → Integrationen entfernt. Zentrale
+Verbindungstabelle und bestehende Systemaktionen bleiben vorhanden. Zugehörige
+alte Sprunglinks und die nicht mehr benötigte Scheduler-Statusabfrage entfallen.
+Gespeicherte Verbindungen, Berechtigungen und API bleiben unverändert.
+TypeScript/Build, vorhandener Integrations-Browserablauf mit Aktionsfreigabe,
+Wiederholungsprüfung, Revisionsschutz, 390px und Prüfung auf fehlende Duplikate
+sowie Source-Scan erfolgreich. CI, Test-VM und öffentliche Veröffentlichung folgen.
+
+
 ## Cloudguthaben am Profil – Test-VM geprüft, 11.10.2026
 
 Aktiver App-Code `b668eec`, Schema `0040`. Vollständige CI38165936854 erfolgreich:
